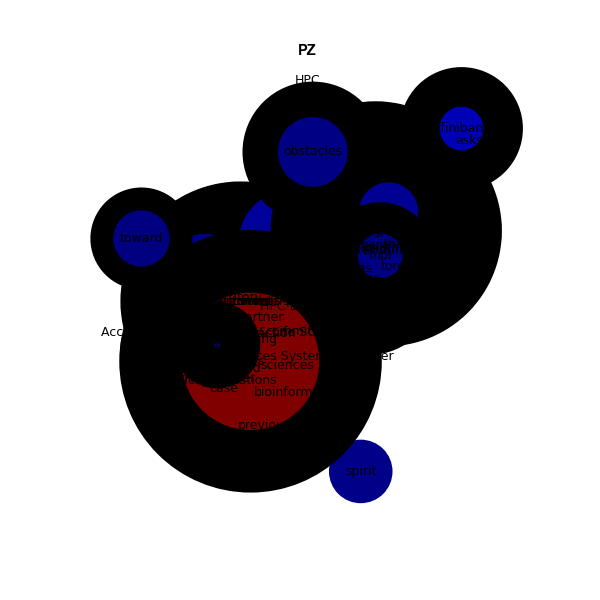
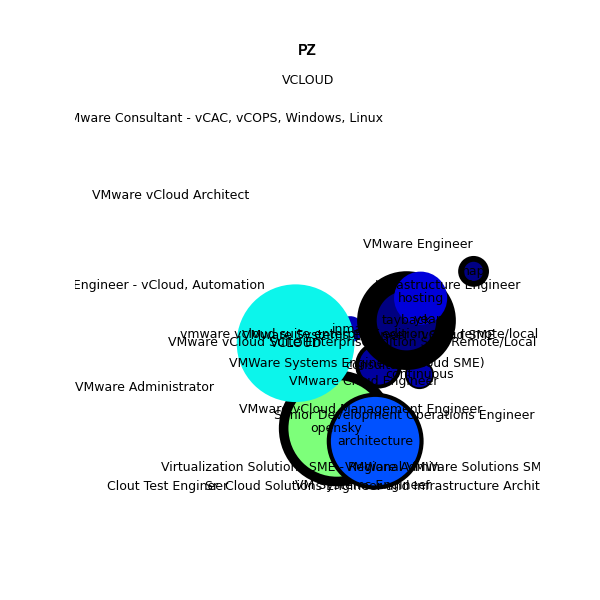
Multithreaded

diff --git a/DMiner/DMiner.py b/DMiner/DMiner.py
@@ -12,14 +12,6 @@ import networkx as nx
 import matplotlib.pyplot as plt
 
 
-def visible(element):
-    if element.parent.name in ['style', 'script', '[document]', 'head', 'title']:
-        return False
-    elif re.match('<!--.*-->', str(element)):
-        return False
-    return True
-
-
 def MainSearch(keyword, base="http://seeker.dice.com", tail="/jobsearch/servlet/JobSearch?op=100&NUM_PER_PAGE=5&FREE_TEXT="):
     """
     Get job listings from main keyword search and returns bs
@@ -71,10 +63,11 @@ def ExtractText(soup, base="http://seeker.dice.com"):
 def ExtractSalary(word):
     soup = GetSoup("http://www.indeed.com/salary?q1=" + word)
     try:
-        for sal in soup.find_all('span', 'salary'):
-            s = int(sal.text.replace('$', '').replace(',', '')) / 1000
+        t = soup.find('span', 'salary')
+        s = int(t.text.replace('$', '').replace(',', '')) / 1000
     except:
         s = 0
+    salary[word] = s
     return s
 
 
@@ -85,6 +78,7 @@ def ExtractSupply(word):
         s = int(s.text.strip().split()[0].replace(',', ''))
     except:
         s = 10000
+    supply[word] = s
     return s
 
 
@@ -96,6 +90,7 @@ def ExtractOpenings(word):
             soup.find('div', {'id': 'searchResHD'}).contents[1].text.split()[-1])
     except:
         s = 0
+    openings[word] = s
     return s
 
 
@@ -108,6 +103,7 @@ def ExtractTrend(word):
             t = -t
     except:
         t = 0
+    trends[word] = t
     return t
 
 
@@ -125,15 +121,13 @@ def kw2Jd(searchterm):
     openings[searchterm] = ExtractOpenings(searchterm)
     trends[searchterm] = ExtractTrend(searchterm)
     url2desc = {}
-    data = []
     for key in Postings.keys():
         url2desc[key] = ExtractText(GetSoup(key))
-        data.append((searchterm, Postings[key]))
         G.add_edge(Postings[key], searchterm, alpha=0)
         freqs[Postings[key]] = freqs.get(Postings[key], 0) + 1
 
         for line in url2desc[key]:
-            for word in re.split('[ :,.!?\)\(/@#%&*;"=\-\+\$]', line.lower()):
+            for word in re.split('[\s :,.!?\)\(/@#%&*;"=\-\+\$'']', line.lower()):
                 if len(word) < 18 and len(word) > 2:
                     if re.match('\D', word):  # Weed out numerics
                         # Weed out non-alphanumerics
@@ -143,21 +137,38 @@ def kw2Jd(searchterm):
                                     # fetch and increment OR initialize
                                     freqs[word] = freqs.get(word, 0) + 1
     for word in freqs.keys():
-        print(word, freqs[word])
+        #         print(word, freqs[word])
         if freqs[word] > results * .2 + 1 and freqs[word] < 4 * results:
             for key in Postings.keys():
                 if word in " ".join(url2desc[key]):
-                    data.append((Postings[key], word))
                     G.add_edge(Postings[key], word, weight=10 * freqs[word])
-                    salary[word] = ExtractSalary(word)
-                    supply[word] = ExtractSupply(word)
-                    openings[word] = ExtractOpenings(word)
-                    trends[word] = ExtractTrend(word)
+
+            threads = []
+            t = Thread(target=ExtractSalary, args=(word,))
+            t.start()
+            threads.append(t)
+
+            t = Thread(target=ExtractSupply, args=(word,))
+            t.start()
+            threads.append(t)
+
+            t = Thread(target=ExtractOpenings, args=(word,))
+            t.start()
+            threads.append(t)
+
+            t = Thread(target=ExtractTrend, args=(word,))
+            t.start()
+            threads.append(t)
+
+            # join all threads
+            for t in threads:
+                t.join()
+            print(word.upper())
     return G
 
 
 def Main():
-    searchterm = "VCLOUD"
+    searchterm = "VMWARE"
     G = kw2Jd(searchterm)
     H = nx.Graph(G)
     font = {'fontname': 'Arial',
@@ -191,9 +202,10 @@ def Main():
         (abs(trends.get(v, 0)) - trends.get(v, 10000)) / 10 for v in H]
     nodes = H.nodes()
 
-    nx.draw_networkx_nodes(H, pos, nodelist=nodes, node_size=nodesize, linewidths=linewidths,
-                           cmap=plt.get_cmap('jet'), vmin=0, vmax=2 * max(colorcoding), node_color=colorcoding)
-
+    nx.draw_networkx_nodes(H, pos, nodelist=nodes, node_size=nodesize, linewidths=linewidths, cmap=plt.cm.Blues, vmin=min(
+        colorcoding) / 2, vmax=max(colorcoding), node_color=colorcoding)
+#     print(colorcoding)
+    print(min(colorcoding), max(colorcoding))
     plt.savefig("pz-networkx.png", dpi=75)
     plt.show()
 
